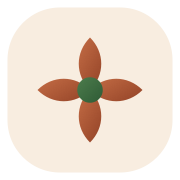
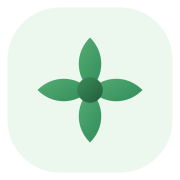
style: shift flora palette from coffee tones to green

diff --git a/src/app/globals.css b/src/app/globals.css
@@ -1,21 +1,21 @@
 @import "tailwindcss";
 
 :root {
-  --bg: #f6efe4;
-  --surface: #fff8f0;
-  --surface-soft: #fdf3e7;
-  --ink: #2a1f1a;
-  --ink-soft: #6f5e53;
-  --line: #dfd0c1;
-  --accent: #a64f2b;
-  --accent-soft: #f8dfcf;
+  --bg: #edf6ee;
+  --surface: #f8fdf8;
+  --surface-soft: #eef8ef;
+  --ink: #193126;
+  --ink-soft: #4f6d5d;
+  --line: #c8decb;
+  --accent: #2d8a57;
+  --accent-soft: #ddf3e4;
   --ok: #2f7a53;
   --ok-soft: #e7f5ed;
-  --warning: #996226;
-  --warning-soft: #fdf0dc;
+  --warning: #5a8241;
+  --warning-soft: #edf7e3;
   --critical: #a94343;
   --critical-soft: #fde9e8;
-  --shadow: 0 14px 34px rgba(72, 40, 18, 0.1);
+  --shadow: 0 14px 34px rgba(23, 66, 41, 0.1);
 }
 
 * {
@@ -25,9 +25,9 @@
 body.planner-body {
   margin: 0;
   background:
-    radial-gradient(circle at 12% 8%, #ffe7cf 0%, transparent 32%),
-    radial-gradient(circle at 88% 10%, #ffd9bc 0%, transparent 34%),
-    linear-gradient(180deg, #fbf5eb 0%, var(--bg) 100%);
+    radial-gradient(circle at 12% 8%, #d8efdb 0%, transparent 32%),
+    radial-gradient(circle at 88% 10%, #cde7d0 0%, transparent 34%),
+    linear-gradient(180deg, #f6fcf6 0%, var(--bg) 100%);
   color: var(--ink);
   font-family: var(--font-body), -apple-system, BlinkMacSystemFont, "Segoe UI", sans-serif;
   overflow-x: hidden;
@@ -133,14 +133,14 @@ textarea:focus {
 }
 
 .btn-primary {
-  background: linear-gradient(180deg, #be6840 0%, #a64f2b 100%);
+  background: linear-gradient(180deg, #45a56f 0%, #2d8a57 100%);
   color: #fff;
-  border-color: #914120;
-  box-shadow: 0 8px 20px rgba(166, 79, 43, 0.34);
+  border-color: #1e6f44;
+  box-shadow: 0 8px 20px rgba(45, 138, 87, 0.34);
 }
 
 .btn-primary:hover {
-  box-shadow: 0 12px 24px rgba(166, 79, 43, 0.43);
+  box-shadow: 0 12px 24px rgba(45, 138, 87, 0.43);
 }
 
 .btn-ghost {
@@ -149,7 +149,7 @@ textarea:focus {
 }
 
 .btn-ghost:hover {
-  background: #f4e7d9;
+  background: #e4f1e6;
 }
 
 .btn-danger {
@@ -980,7 +980,7 @@ textarea:focus {
   border: 1px solid var(--line);
   border-radius: 14px;
   overflow: hidden;
-  background: color-mix(in srgb, var(--surface) 92%, #f8ddc7 8%);
+  background: color-mix(in srgb, var(--surface) 92%, #d7eddc 8%);
   box-shadow: var(--shadow);
 }
 
@@ -988,8 +988,8 @@ textarea:focus {
   width: 100%;
   aspect-ratio: 16 / 10;
   background:
-    radial-gradient(circle at 18% 15%, #ffe8d2 0%, transparent 50%),
-    linear-gradient(180deg, #f7e8d9 0%, #e6d2bf 100%);
+    radial-gradient(circle at 18% 15%, #dff2e2 0%, transparent 50%),
+    linear-gradient(180deg, #edf8ef 0%, #cfdfd1 100%);
 }
 
 .gallery-image {

diff --git a/src/app/layout.tsx b/src/app/layout.tsx
@@ -19,10 +19,10 @@ export const metadata: Metadata = {
   icons: {
     icon: [
       { url: "/favicon.ico", sizes: "any" },
-      { url: "/icon.png?v=flora-20260406-2", type: "image/png" },
+      { url: "/icon.png?v=flora-20260406-3", type: "image/png" },
     ],
     shortcut: [{ url: "/favicon.ico" }],
-    apple: [{ url: "/apple-icon.png?v=flora-20260406-2", type: "image/png" }],
+    apple: [{ url: "/apple-icon.png?v=flora-20260406-3", type: "image/png" }],
   },
 };
 
